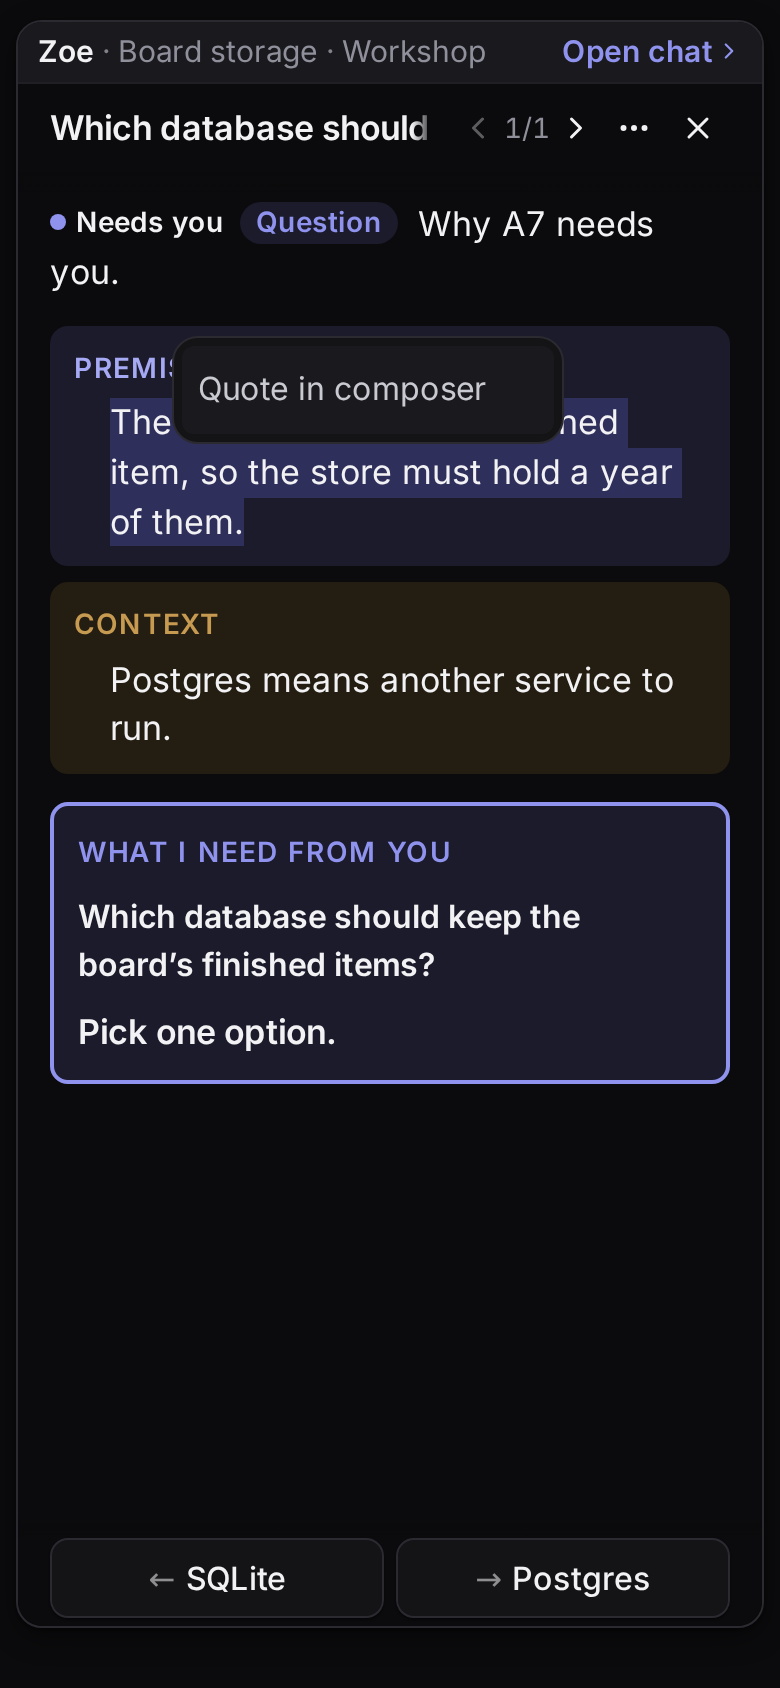
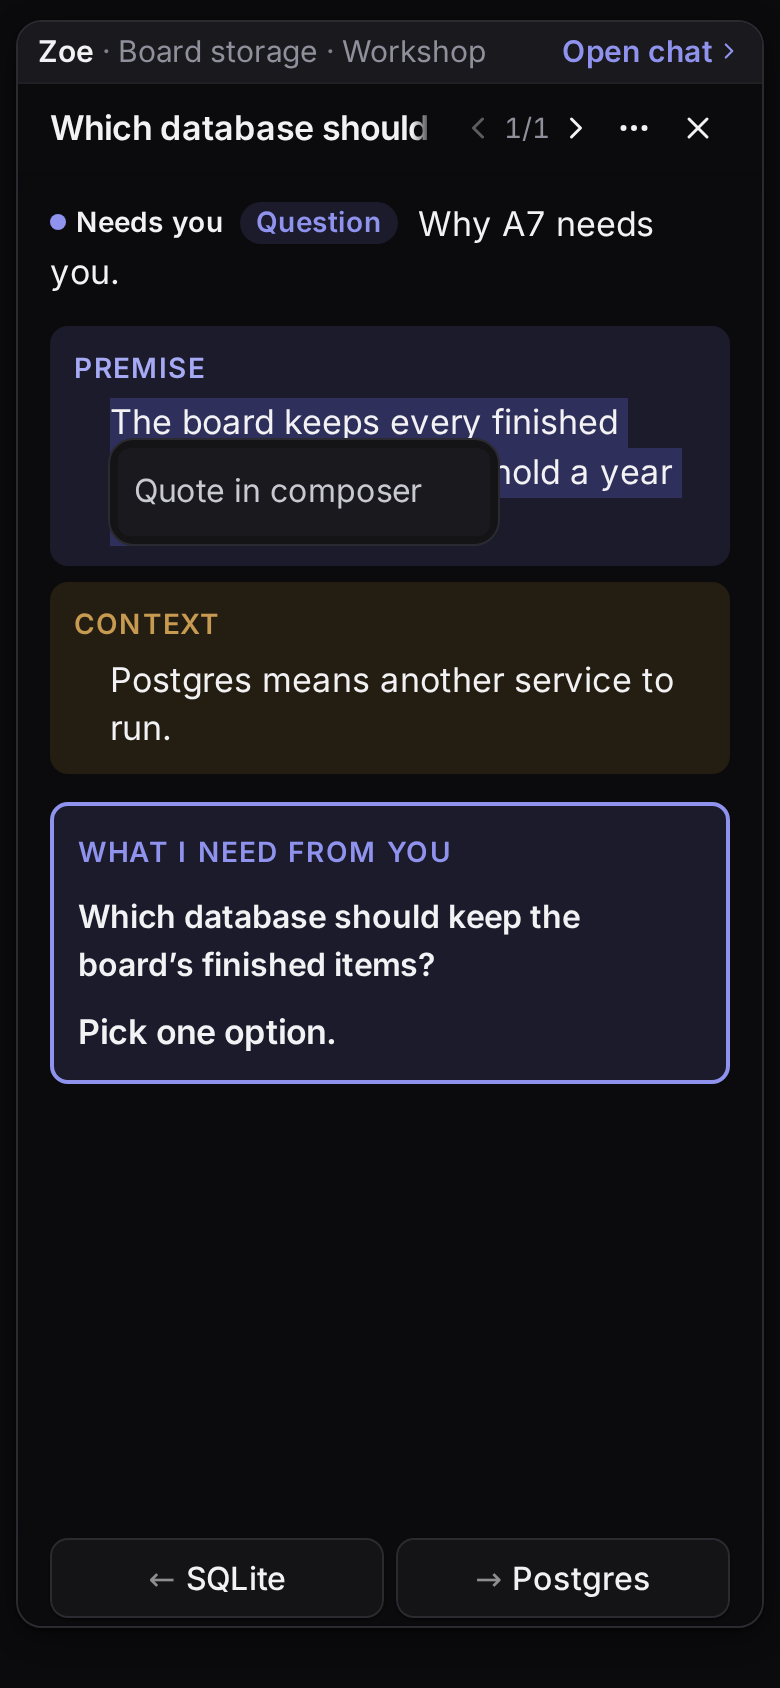
chore(shots): u2-07 quote menu shots at the selection

Changed region(s): [[0.1231, 0.2156, 0.7385, 0.3389]]

diff --git a/packages/plugins/agenda/tests/integration/app/u207-shots.visual.test.ts b/packages/plugins/agenda/tests/integration/app/u207-shots.visual.test.ts
@@ -84,23 +84,24 @@ describe('u2-07 screenshots', () => {
             } else {
               await tab.waitForSelector('.fy-attn-deck__top', { timeout: 5_000 });
               await tab.evaluate(() => {
-                const target = [...document.querySelectorAll('p')].find(p =>
-                  p.textContent?.includes('keeps every finished item'),
+                const target = [...document.querySelectorAll<HTMLElement>('.fy-attn-deck__top p')].find(
+                  p => p.textContent?.includes('keeps every finished item') && p.getClientRects().length > 0,
                 );
-                if (target === undefined) throw new Error('no prose to select');
+                if (target === undefined) throw new Error('no visible prose to select');
                 const range = document.createRange();
                 range.selectNodeContents(target);
                 const selection = window.getSelection();
                 selection?.removeAllRanges();
                 selection?.addRange(range);
-                const rect = target.getBoundingClientRect();
+                const rects = [...range.getClientRects()];
+                const last = rects[rects.length - 1] ?? target.getBoundingClientRect();
                 target.dispatchEvent(new Event('pointerdown', { bubbles: true }));
                 target.dispatchEvent(
                   new MouseEvent('contextmenu', {
                     bubbles: true,
                     cancelable: true,
-                    clientX: rect.left + 40,
-                    clientY: rect.top + 10,
+                    clientX: Math.max(last.left + 8, last.right - 60),
+                    clientY: last.top + last.height / 2,
                   }),
                 );
               });
